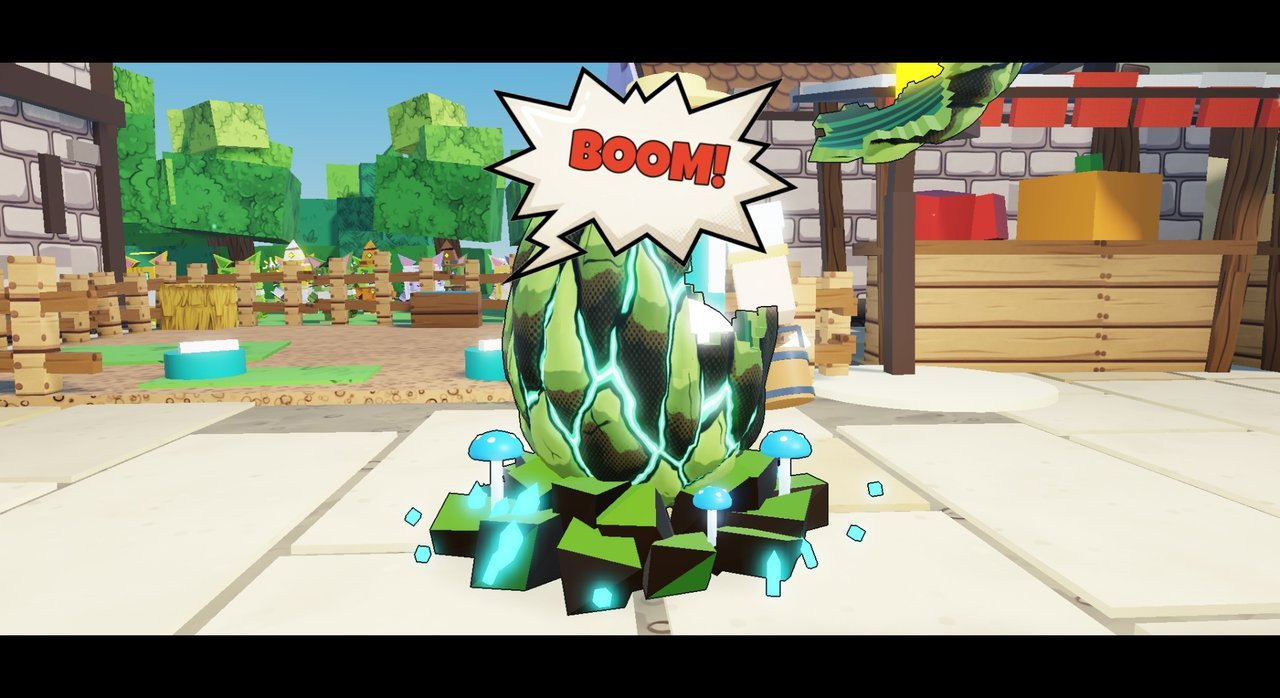
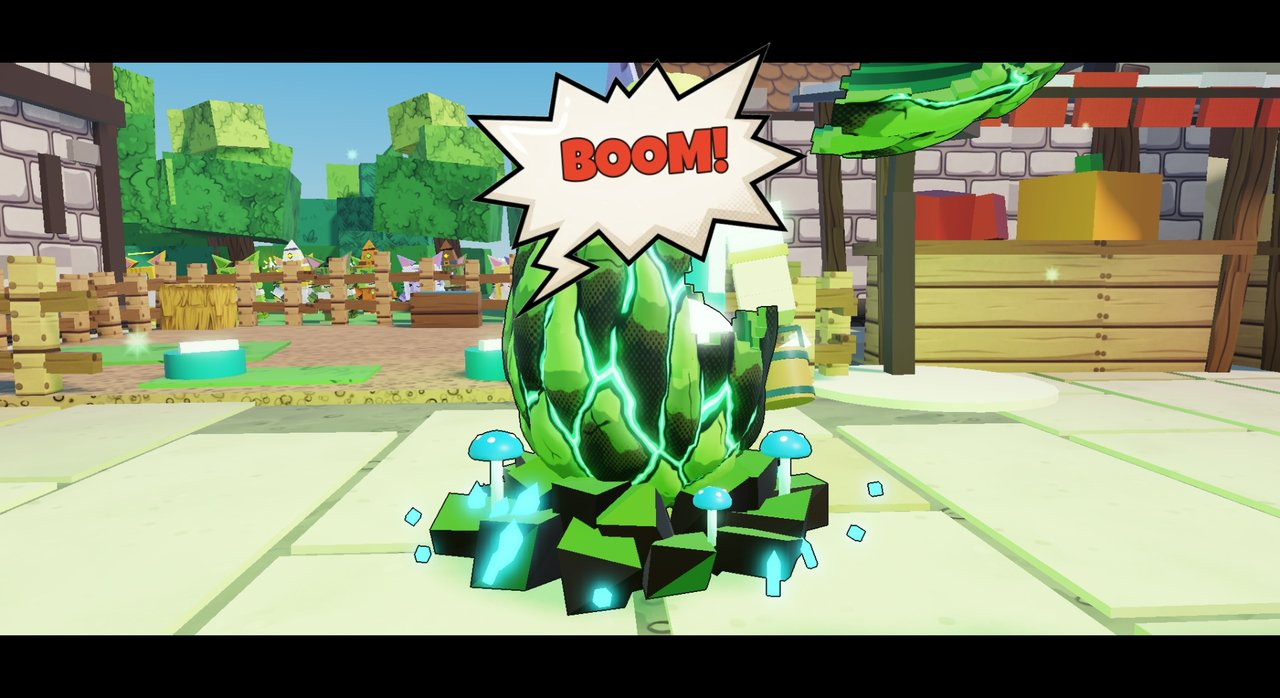
Jajka: zakup ze scenki bez pokazu inkubatora — napis nie zdradza peta przed otwarciem jaja
Serwer petów: haczyk kup z opcją bezPokazu; klient petów nie gra animacji inkubatora i pokazuje napis „Wykluł się…” dopiero na sygnał scenki (odsłonięcie peta), pet rusza za graczem po scence; scenka Pawła wysyła sygnały (za jego zgodą z 26.11). Zakup prawdziwym E inkubatora bez zmian. Próba jajek na prawdziwych modelach 36 OK, 0 błędów; pełna próba petów lasu 17 punktów, 0 błędów; zrzuty scenki odświeżone.

diff --git a/swiat/jajka_biomow/testy/proba_play.py b/swiat/jajka_biomow/testy/proba_play.py
@@ -26,6 +26,8 @@ LISTA (OK / BŁĄD / ?):
   x7 pet: napis nad petem = nazwa z wyklucia, model peta ze słupa, pet z puli TEGO jajka, cena zakupu = cena jajka
   x8 koniec: Wyklucie zdjęte, kino zamknięte, kamera Custom, ruch przywrócony, jajo z powrotem całe
   x9 (Bagno, Dżungla) ozdoby grają finał (odchylenie liści / trzcin, błysk kryształów, bąble)
+  xA zakup „bez pokazu”: stary inkubator nie gra animacji, napis „Wykluł się…” dopiero po wyłonieniu peta
+  xB po scence aktywny pet idzie za graczem (model „Pet <PetAktywny>” bliżej niż 12 st)
   xZ zrzuty: jajo świeci / pęka, rozpad ze słupem, pet (ocena człowieka: „?”)
   K01 konsola bez błędów skryptów jajek (JajkoKorowe*, JajkaBiomow*)
 """
@@ -321,6 +323,17 @@ table.insert(pol, RunService.RenderStepped:Connect(function()
 			o.tRdzen, o.rdzenKolor = t, hex(rdzen.Color)
 		end
 	end
+	local pk = pg and pg:FindFirstChild("PetyProba")
+	local kom = pk and pk:FindFirstChild("Komunikat")
+	if kom and kom:IsA("TextLabel") and kom.Visible and not o.tNapisPetow
+		and (string.find(kom.Text, "Wykluł się", 1, true) or string.find(kom.Text, "Kopia peta", 1, true)) then
+		o.tNapisPetow, o.napisPetow = t, kom.Text
+	end
+	local kp = workspace:FindFirstChild("PetyProba")
+	local lok = kp and kp:FindFirstChild("PetyLokalne")
+	if lok and (lok:FindFirstChild("Jajko wyklucie") or lok:FindFirstChild("Pet wyklucie")) and not o.tAnimInkubatora then
+		o.tAnimInkubatora = t
+	end
 	if not o.tPet and workspace:FindFirstChild("PetZJajka") then
 		o.tPet = t
 	end
@@ -367,6 +380,15 @@ task.spawn(function()
 	f:SetAttribute("wynik", H:JSONEncode(o))
 end)
 return H:JSONEncode({ nr = nr })''',
+    "towarzysz": H + r'''
+local lp = game:GetService("Players").LocalPlayer
+local a = lp:GetAttribute("PetAktywny")
+local kp = workspace:FindFirstChild("PetyProba")
+local lok = kp and kp:FindFirstChild("PetyLokalne")
+local m = if a and lok then lok:FindFirstChild("Pet " .. a) else nil
+local hrp = lp.Character and lp.Character:FindFirstChild("HumanoidRootPart")
+local odl = if m and hrp then (m:GetPivot().Position - hrp.Position).Magnitude else false
+return H:JSONEncode({ aktywny = a or false, model = m ~= nil, odl = odl })''',
     "rejestr_czytaj": ('local f = game:GetService("ReplicatedStorage"):FindFirstChild("ProbaScenkiJajek") '
                        'return f and f:GetAttribute("wynik") or "{}"'),
     "rejestr_stop": ('local f = game:GetService("ReplicatedStorage"):FindFirstChild("ProbaScenkiJajek") '
@@ -691,6 +713,20 @@ def main():
                 punkt(T + "8", ok8, "Wyklucie %s → %s (scenka %.1f s), kino do %s s, kamera %s, ruch w kinie %s → %s, jajo %s" % (
                     r.get("tWyklucie"), r.get("wyklucieAtrPo"), (r.get("tKoniecWyklucia") or 0) - tw, r.get("tKinoKoniec"),
                     r.get("kameraPo"), r.get("predkoscWKinie"), r.get("predkoscPo"), r.get("jajoPo")))
+                # ------------------------------------------------ xA bez spoilera (zakup „bez pokazu”)
+                tn, tp = r.get("tNapisPetow"), r.get("tPet")
+                okA = (r.get("tAnimInkubatora") is None and tn is not None and tp is not None and tn >= tp
+                       and (w or {}).get("nazwa", "?") in (r.get("napisPetow") or ""))
+                anim = "BYŁA od %s s" % r["tAnimInkubatora"] if r.get("tAnimInkubatora") is not None else "brak"
+                punkt(T + "A", okA, "animacja starego inkubatora: %s; napis pakietu petów od %s s (BOOM %s s, pet "
+                      "wyłania się od %s s): %r" % (anim, tn, r.get("tRozpad"), tp, r.get("napisPetow")))
+                # ------------------------------------------------ xB pet za graczem po scence
+                tw_ = czekaj_na(lambda: (lambda a: a if a.get("model") and a.get("odl") and a["odl"] < 12 else None)(
+                    js(KOD["towarzysz"], "Client")), 8, 0.5) or js(KOD["towarzysz"], "Client")
+                zapisz(T + "B", tw_)
+                punkt(T + "B", bool(tw_.get("model")) and bool(tw_.get("odl")) and tw_["odl"] < 12,
+                      "po scence: aktywny pet %s, model za graczem %s, odległość %s st" % (
+                          tw_.get("aktywny"), tw_.get("model"), round(tw_["odl"], 1) if tw_.get("odl") else None))
                 # ------------------------------------------------ x9 ozdoby
                 if J["ozdoby"]:
                     oz = r.get("ozdoby") or {}

diff --git a/swiat/jajka_biomow/PROJEKT.md b/swiat/jajka_biomow/PROJEKT.md
@@ -88,9 +88,19 @@ Dane w `studio/JajkaBiomowDane.luau` (gotowy ModuleScript), czyta je `studio/Jaj
   szans i cena każdego jajka (300 / 750 / 1350), odmowa bez Rybek, zakup prawdziwym E, 5 kliknięć, rozpad, słup, pet
   z właściwej puli, kolor żył z atrybutu, reakcja ozdób w finale, konsola czysta. Zrzuty `podglad/scenka_*.jpg` są
   z tej próby (prawdziwe modele).
-- **Do poprawy (pakiet petów, zadanie w sejfie):** komunikat „Wykluł się: …” na dole ekranu pojawia się zaraz po E
-  i zdradza peta przed otwarciem jaja (także przy leśnym); stary inkubator biomu stoi obok z własnym E i przy zakupie
-  gra swoją animację. Nie sprawdzono: widoku u drugiego gracza, dotyku i myszy, prawdziwego telefonu.
+- **Poprawione 26.11 (wieczór): zakup ze scenki idzie „bez pokazu”.** Wcześniej komunikat „Wykluł się: …” pojawiał
+  się zaraz po E i zdradzał peta przed otwarciem jaja (także przy leśnym), a stary inkubator biomu grał swoją
+  animację. Teraz `JajkoKorowe.server.luau` woła haczyk `SterowanieSerwera("kup", gracz, id, { bezPokazu = true })`;
+  serwer petów dopisuje `bezPokazu` do swojego „wyklucie”, a klient petów nie gra animacji inkubatora, chowa
+  własnego peta gracza (jak w czasie animacji) i trzyma napis. Scenka (`JajkoKoroweClient`) woła lokalny sygnał
+  `PetyProba/Sygnaly/PokazWyklucia`: „odsloniety” razem z dymkiem „NEW PET!” (ok. 0,7 s po wyłonieniu peta ze słupa) →
+  napis „Wykluł się: … — premia”; „koniec” po zamknięciu kina → pet rusza za graczem od jaja. Bez sygnału napis
+  i pet same po 45 s. Zakup ze starego inkubatora prawdziwym E — bez zmian (animacja i napis jak dotąd).
+  Próba `testy/proba_play.py` na prawdziwych modelach: **36 OK / 0 BŁĄD / 3 ?** (nowe punkty: brak animacji inkubatora,
+  napis dopiero po wyłonieniu peta, pet za graczem po scence ok. 4,8 st); zrzuty `podglad/scenka_*.jpg` nadpisane —
+  w kadrze „CLICK!” już bez napisu. Stary inkubator dalej stoi z własnym E (decyzja ludzi; wskazówka celu „kup jajko”
+  w Bagnie i Dżungli prowadzi do niego, nie do nowego jajka). Nie sprawdzono: widoku u drugiego gracza, dotyku
+  i myszy, prawdziwego telefonu.
 - Sekcje niżej opisują stan sprzed wgrania (noc 25/26.11) i kroki etapu — zostają jako historia.
 
 ## Stan w Studio (noc 25/26.11.2026)
@@ -173,14 +183,11 @@ Dane w `studio/JajkaBiomowDane.luau` (gotowy ModuleScript), czyta je `studio/Jaj
   wyglądać inaczej; ocenić dopiero zrzutem ze Studio.
 - Miejsce i przód sprawdzone na mapie 26.11 (wyżej), ale bez prawdziwego modelu — po wstawieniu obejrzeć zrzutem,
   czy liście Dżungli (7,5 studa szerokości) nie wchodzą w kwiaty obok i czy trzcina obok jaja Bagna nie przebija jaja.
-- **Stary inkubator z pakietu petów obok nowego jajka (do decyzji Karola, zmiana w `swiat/pety_proba`):** haczyk
-  `kup` serwera petów wysyła też własne „wyklucie” do klienta petów, więc przy każdym zakupie z nowego jajka (tak samo
-  jak dziś z leśnego) stary inkubator tego jajka gra swoją animację, a na dole ekranu od razu wyskakuje „Wykluł się:
-  <pet> (rzadkość)…” — **zdradza peta, zanim gracz kliknie 5 razy** (widać na `scenka_*_1_pekanie.jpg`). Stary
-  inkubator ma też dalej własne E (Bagno ok. 15,5 st od punktu nowego jajka, Dżungla ok. 12,6 st): ta sama cena, pula
-  i zapis, więc gra się nie psuje, ale są dwa miejsca zakupu, a quest „jajka” liczą tylko nowe stanowiska.
-  Propozycja: w haczyku `kup` flaga „bez pokazu” (bez animacji inkubatora i bez komunikatu), a E i jajko inkubatora
-  biomu chowane, gdy w `JajkaBiomowPodglad` stoi model z tym `JajkoId`.
+- **Stary inkubator z pakietu petów obok nowego jajka (do decyzji ludzi):** spoiler i podwójna animacja poprawione
+  26.11 wieczorem („bez pokazu”, wyżej). Zostaje: stary inkubator ma dalej własne E (Bagno ok. 15,5 st od punktu
+  nowego jajka, Dżungla ok. 12,6 st) — ta sama cena, pula i zapis, ale dwa miejsca zakupu, quest „jajka” liczą tylko
+  nowe stanowiska, a wskazówka celu prowadzi do starego inkubatora. Do decyzji: chować E i jajko inkubatora biomu,
+  gdy w `JajkaBiomowPodglad` stoi model z tym `JajkoId` (zależą od niego próby petów, wskazówki i miejsce z D-076).
 - Napis z nazwą i rzadkością peta nad słupem: tabliczka istnieje (próba czyta „Żołędziak / POSPOLITY”), ale na
   zrzutach jej nie widać — przy leśnym jaju nad jajem wisi tabliczka NPC Jagody; niesprawdzone wzrokowo.
 - Przy leśnym jaju w kadrze scenki stoi Jagoda (NPC zagrody, ok. 3 st za jajem) — scenka chowa tylko gracza, jego

diff --git a/swiat/pety_proba/PROJEKT.md b/swiat/pety_proba/PROJEKT.md
@@ -333,6 +333,14 @@ pokazywało trzy pety zamiast dziesięciu (okno Pawła — do sprawdzenia przy o
    kopię peta; pierwszy pet od razu idzie za graczem. Atrybuty gracza `PetAktywny` i `PetyLiczba` widzą klienci.
 4. Serwer petów wysyła klientowi „wyklucie”; animację gra **klient** (nic w niej nie decyduje). Reset postaci w trakcie
    niczego nie zabiera — pet jest już w profilu.
+5. **Zakup „bez pokazu” (26.11.2026, jajka w świecie ze scenką Pawła — `src/server/JajkoKorowe.server.luau`):**
+   haczyk `SterowanieSerwera("kup", gracz, jajko, { bezPokazu = true })` (trzeci argument: liczba r jak dotąd albo
+   tabela `{ r?, bezPokazu? }`). Zakup, cena, zapis peta, PetAktywny, liczniki i ceny — bez zmian; „wyklucie” do
+   klienta ma pole `bezPokazu`. Klient wtedy nie gra animacji inkubatora, chowa swojego peta przy graczu (jak w czasie
+   animacji) i trzyma napis „Wykluł się: … — premia” do lokalnego sygnału `Sygnaly/PokazWyklucia` (BindableEvent,
+   tworzy go klient): „odsloniety” → napis (scenka woła go razem z „NEW PET!”), „koniec”, Vector3 jaja → pet rusza za
+   graczem od jaja. Bez sygnału po 45 s napis i pet same. Zakup z inkubatora prawdziwym E — jak dotąd (animacja
+   i napis). Próba: `swiat/jajka_biomow/testy/proba_play.py` (punkty xA, xB).
 
 **Stan petów żyje w profilu StanGracza** (`pety = { kopie, aktywny, premia }`, `wydatki`, wersja profilu 2), nie
 w serwerze petów. Uzasadnienie: StanGracza jest jedynym właścicielem stanu gracza; Złoto i pety muszą się zapisać
